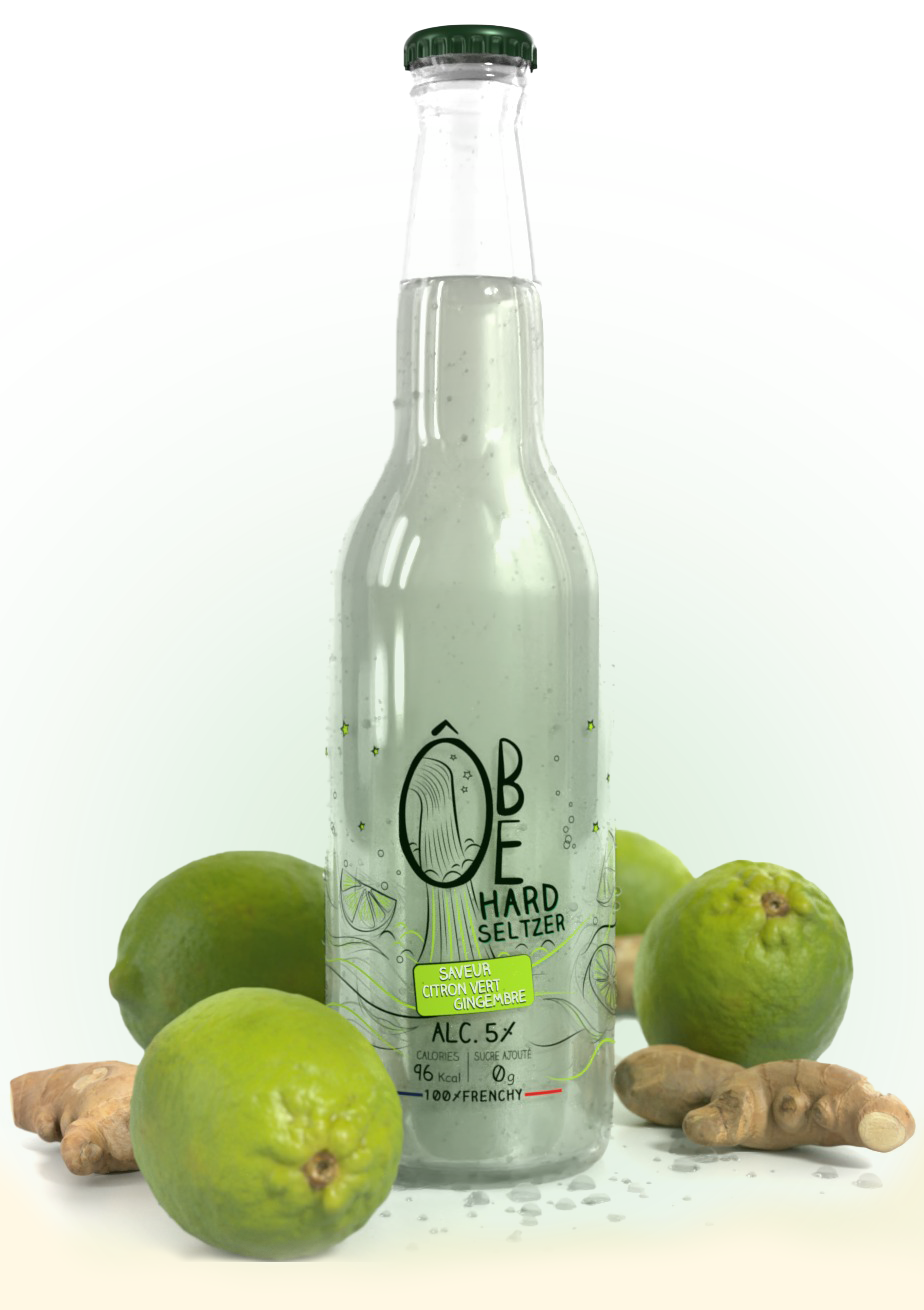
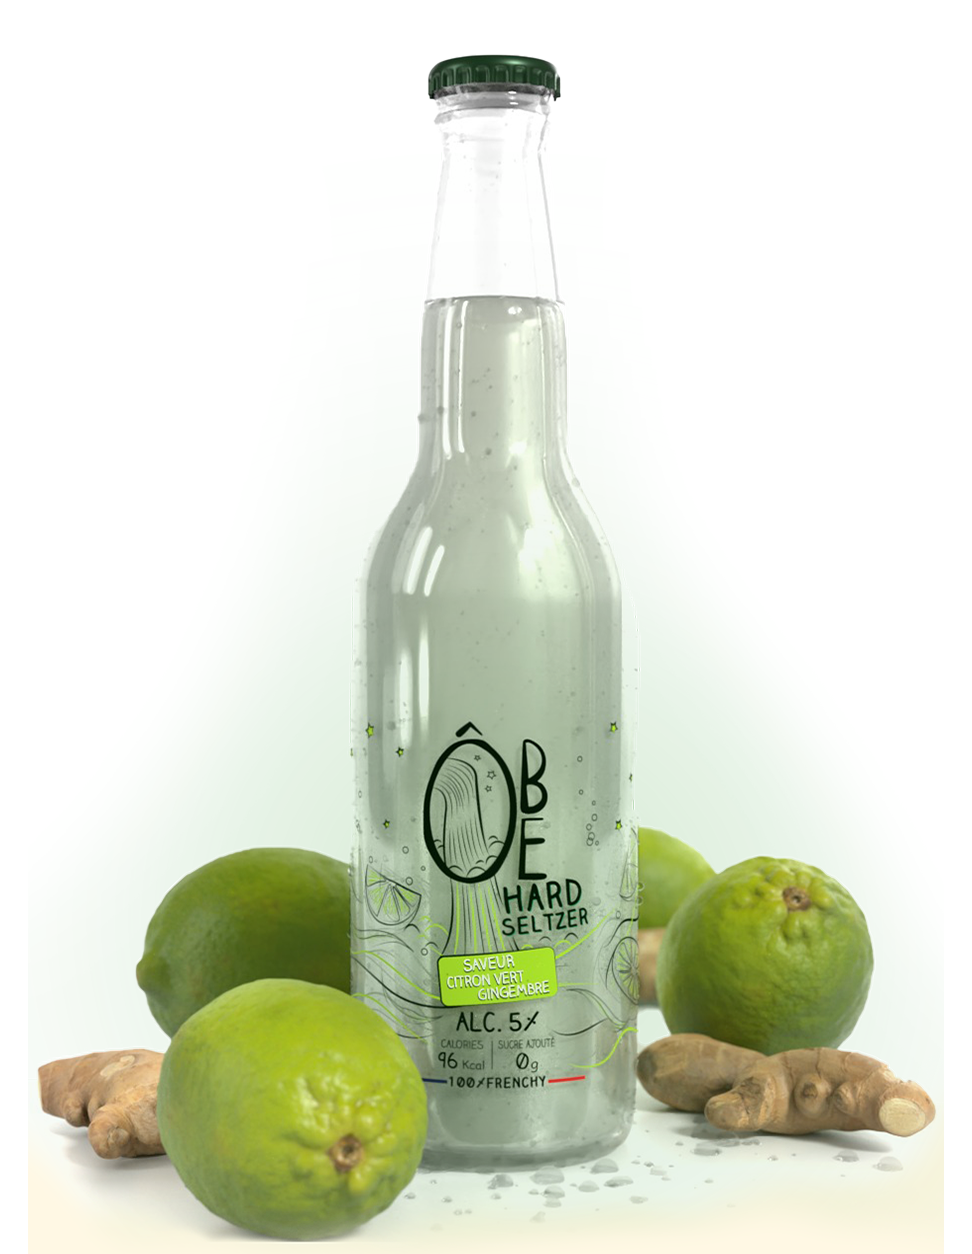
changes on details section

Changed region(s): [[0.0, 0.1244, 1.0, 1.0], [0.4242, 0.0, 0.6061, 0.0933], [0.0, 0.9019, 0.0303, 1.0]]

diff --git a/src/components/Details.svelte b/src/components/Details.svelte
@@ -8,13 +8,12 @@
         sans sucres résiduels ni ajoutés, faible en calories, sans gluten et sans 
         produits controversés. Ôbe rend compte des besoins de la nouvelle génération.
         </p>
-        <div class="imagens d-flex justify-content-center">
+        <div class="imagens">
             <img class="ginger" src="./assets/illustrations/ginger/bottlestyled.png" alt="">
             <img class="agrumes" src="./assets/illustrations/agrumes/bottlestyled.png" alt="">
             <img class="red" src="./assets/illustrations/red/bottlestyled.png" alt="">
         </div>
     </div>
-    
 </main>
 
 <style scoped>
@@ -33,23 +32,36 @@ marquee::selection{
     color:#ff7675;
 }
 .text-center{
-    font-size: 23px;
-    margin: 60px 20vw 60px 20vw ;
+    font-size: 1.6vw;
+    margin: 40px 20vw 60px 20vw;
     font-weight: 500;
 }
-
-.ginger{
-    margin-top: 5vh;
-    width: 420px;
-    height: 644px;
+.imagens{
+    display: grid;
+    grid-template-columns: 1fr 1fr 1fr;
+    justify-items: center;
+    margin-right: 4vw;
+    margin-left: 4vw;
 }
-.agrumes{
-    width: 480px;
-    height: 650px;
+.imagens img{
+    max-width: 28vw;
+    transition: 0.34s cubic-bezier(0.175, 0.885, 0.32, 2.275);
+    filter: contrast(95%);
 }
-.red{
-    margin-top: 5vh;
-    width: 400px;
-    height: 634px;
+.imagens img:hover{
+    filter: contrast(105%);
+    max-width: 30vw;
+    transition: 0.34s cubic-bezier(0.175, 0.885, 0.32, 1.975);
+}
+@media screen and (min-width: 1440px) {
+    .imagens img{
+        max-width: 420px;
+    }
+    .imagens img:hover{
+        max-width: 440px;
+    }
+    .text-center{
+        font-size: 22px;
+    }
 }
 </style>
